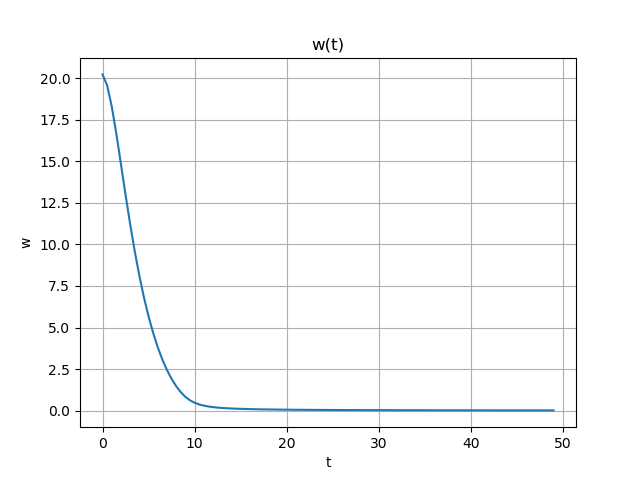
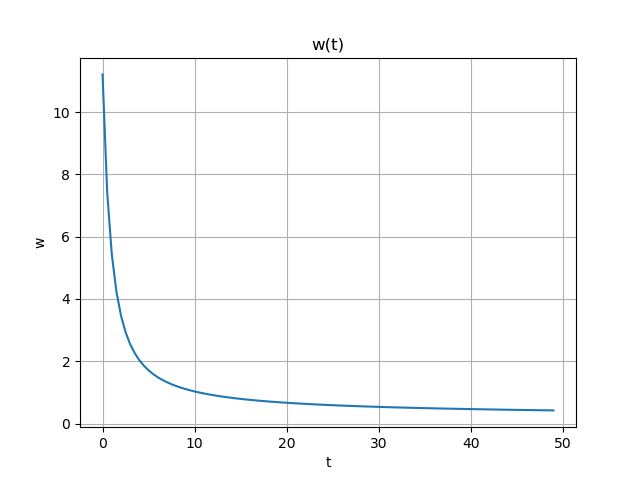
Fix bug with plotting

diff --git a/src/helicopter.h b/src/helicopter.h
@@ -24,7 +24,7 @@ namespace simulation {
         const double num_of_blades_;
         const double fill_factor_;
         const double cord_length_;
-        const double tw_;
+        const double phi_0_;
         const double lift_slope_;
     };
 
@@ -81,7 +81,8 @@ namespace simulation {
                   acceleration_({0, 0}) {}
 
         double angle() {
-            return (moving_left_) ? (M_PI - pitch_) : pitch_;
+            double angle = moving_left_ ? (M_PI - pitch_) : pitch_;
+            return (std::abs(angle) > 2 * M_PI) ? (angle + sgn(angle) * angle) : angle;
         }
 
         void update_position(double dT) {
@@ -97,6 +98,9 @@ namespace simulation {
 
         void update_pitch(double dT) {
             pitch_ = moving_left_ ? (M_PI - velocity_.angle()) : velocity_.angle();
+            if (pitch_ > M_PI / 2) {
+                pitch_ -= 2 * M_PI;
+            }
         }
 
         void update_screw_rotation(double dT, vec const &wind) {
@@ -104,18 +108,16 @@ namespace simulation {
             double n = propeller_.params_.num_of_blades_;
             double c = propeller_.params_.cord_length_;
             double a = propeller_.params_.lift_slope_;
-            double tw = propeller_.params_.tw_;
+            double tw = propeller_.params_.phi_0_;
             double m = propeller_.params_.blade_mass_;
             double D = propeller_.params_.propeller_diameter_;
             double R = propeller_.radius();
 
             double W = propeller_.angular_velocity_ * propeller_.radius();
 
-            double phi = std::atan((wind.y + velocity_.y) / W);
-
             double theta_0 = std::abs(velocity_.dot(wind)) / (velocity_.length() * wind.length());
-            double theta_r = theta_0 / 3 - tw / 4 - phi / 2;
-            double C_i = phi * c * n * a * theta_r / M_PI;
+            double theta_r = theta_0 / 3 - tw / 4 - pitch_ / 2;
+            double C_i = pitch_ * c * n * a * theta_r / M_PI;
             double Q_i = C_i * rho * propeller_.ff_square() * W * W / 2;
             double force_moment = Q_i * R;
             double moment_of_inertia = 5 * m * std::pow(D, 2) / 12;

diff --git a/src/simulator.h b/src/simulator.h
@@ -77,7 +77,7 @@ namespace simulation {
                   position_limit_(X_limit),
                   velocity_limit_(V_limit) {}
 
-        bool run(helicopter &helicopter, double dT) {
+        bool run(helicopter &helicopter, double dT, bool show_plots) {
             auto w_cursor = get_wind_cursor();
 
             std::vector<double> times;
@@ -85,14 +85,12 @@ namespace simulation {
             std::vector<double> angular_velocities;
             std::vector<vec> speeds;
             std::vector<double> pitches;
+            std::vector<double> angles;
 
             double time = 0;
             int iter = 0;
             bool with_forces = false;
             int max_iterations = static_cast<int>(200 / dT);
-#ifdef DEBUG
-            max_iterations = 1;
-#endif
 
             while (helicopter.position_.y > 1 && iter < max_iterations) {
                 w_cursor->move(helicopter.position_);
@@ -102,6 +100,7 @@ namespace simulation {
 #endif
                 positions.push_back(helicopter.position_);
                 speeds.push_back(helicopter.velocity_);
+                angles.push_back(helicopter.angle());
                 pitches.push_back(helicopter.pitch_);
                 angular_velocities.push_back(helicopter.angular_velocity());
 
@@ -110,9 +109,11 @@ namespace simulation {
                 iter += 1;
             }
 
-            plot_dependencies(times, positions, speeds, angular_velocities, pitches);
-            plot_path(helicopter, angular_velocities, positions);
-            plt::show();
+            if (show_plots) {
+                plot_dependencies(times, positions, speeds, angular_velocities, pitches);
+                plot_path(helicopter, angles, positions);
+                plt::show();
+            }
 
             std::cout << "TOTAL TIME: " << time << " s;" << std::endl;
             std::cout <<"POSITION: " << helicopter.position_ << std::endl;

diff --git a/main.cpp b/main.cpp
@@ -15,29 +15,35 @@ double BLADE_MASS = 50; // kg
 double NUM_OF_BLADES = 5;
 const double FILL_FACTOR = 0.0777; // coefficient for traction force
 double CORD_LENGTH = 0.52; // m
-double tw = 0.0785; // fixed angle, rad
+double PHI_0 = 0.0785; // fixed angle, rad
 double LIFT_SLOPE = 0.5;
 const double PROPELLER_ROTATION = 2 * M_PI * 192 / 60; // rad/s
 const double C_x = 0.15; // coefficient for propeller air resistance
 const double C_y = 0.55; // coefficient for traction force
 
 const point POSITION = {1000, 1000};
-const double PITCH = -M_PI / 18 / 2; // rad
+const double PITCH = M_PI / 10; // rad
 const vec VELOCITY = {-72, -6}; // m/s
 const point TARGET_POSITION = {0, 0};
 const double dT = 0.5;
 const double X_limit = 40;
 const double V_limit = 20;
 
+const bool SHOW_PLOTS = true;
+
 
 int main() {
     propeller_params p_params = {PROPELLER_DIAMETER, C_x, C_y, BLADE_MASS, NUM_OF_BLADES,
-                                         FILL_FACTOR, CORD_LENGTH, tw, LIFT_SLOPE};
+                                         FILL_FACTOR, CORD_LENGTH, PHI_0, LIFT_SLOPE};
+
     helicopter_params h_params = {MASS, HEIGHT, WIDTH, FRONT_AIR_RESISTANCE_COEFFICIENT};
+
     helicopter helicopter({p_params, PROPELLER_ROTATION}, h_params,
                           POSITION, PITCH, VELOCITY);
+
     Simulator engine = Simulator(TARGET_POSITION, X_limit, V_limit);
-    bool landing = engine.run(helicopter, dT);
+
+    bool landing = engine.run(helicopter, dT, SHOW_PLOTS);
     std::cout << (landing ? "SUCCESS" : "FAIL") << std::endl;
     return 0;
 }
